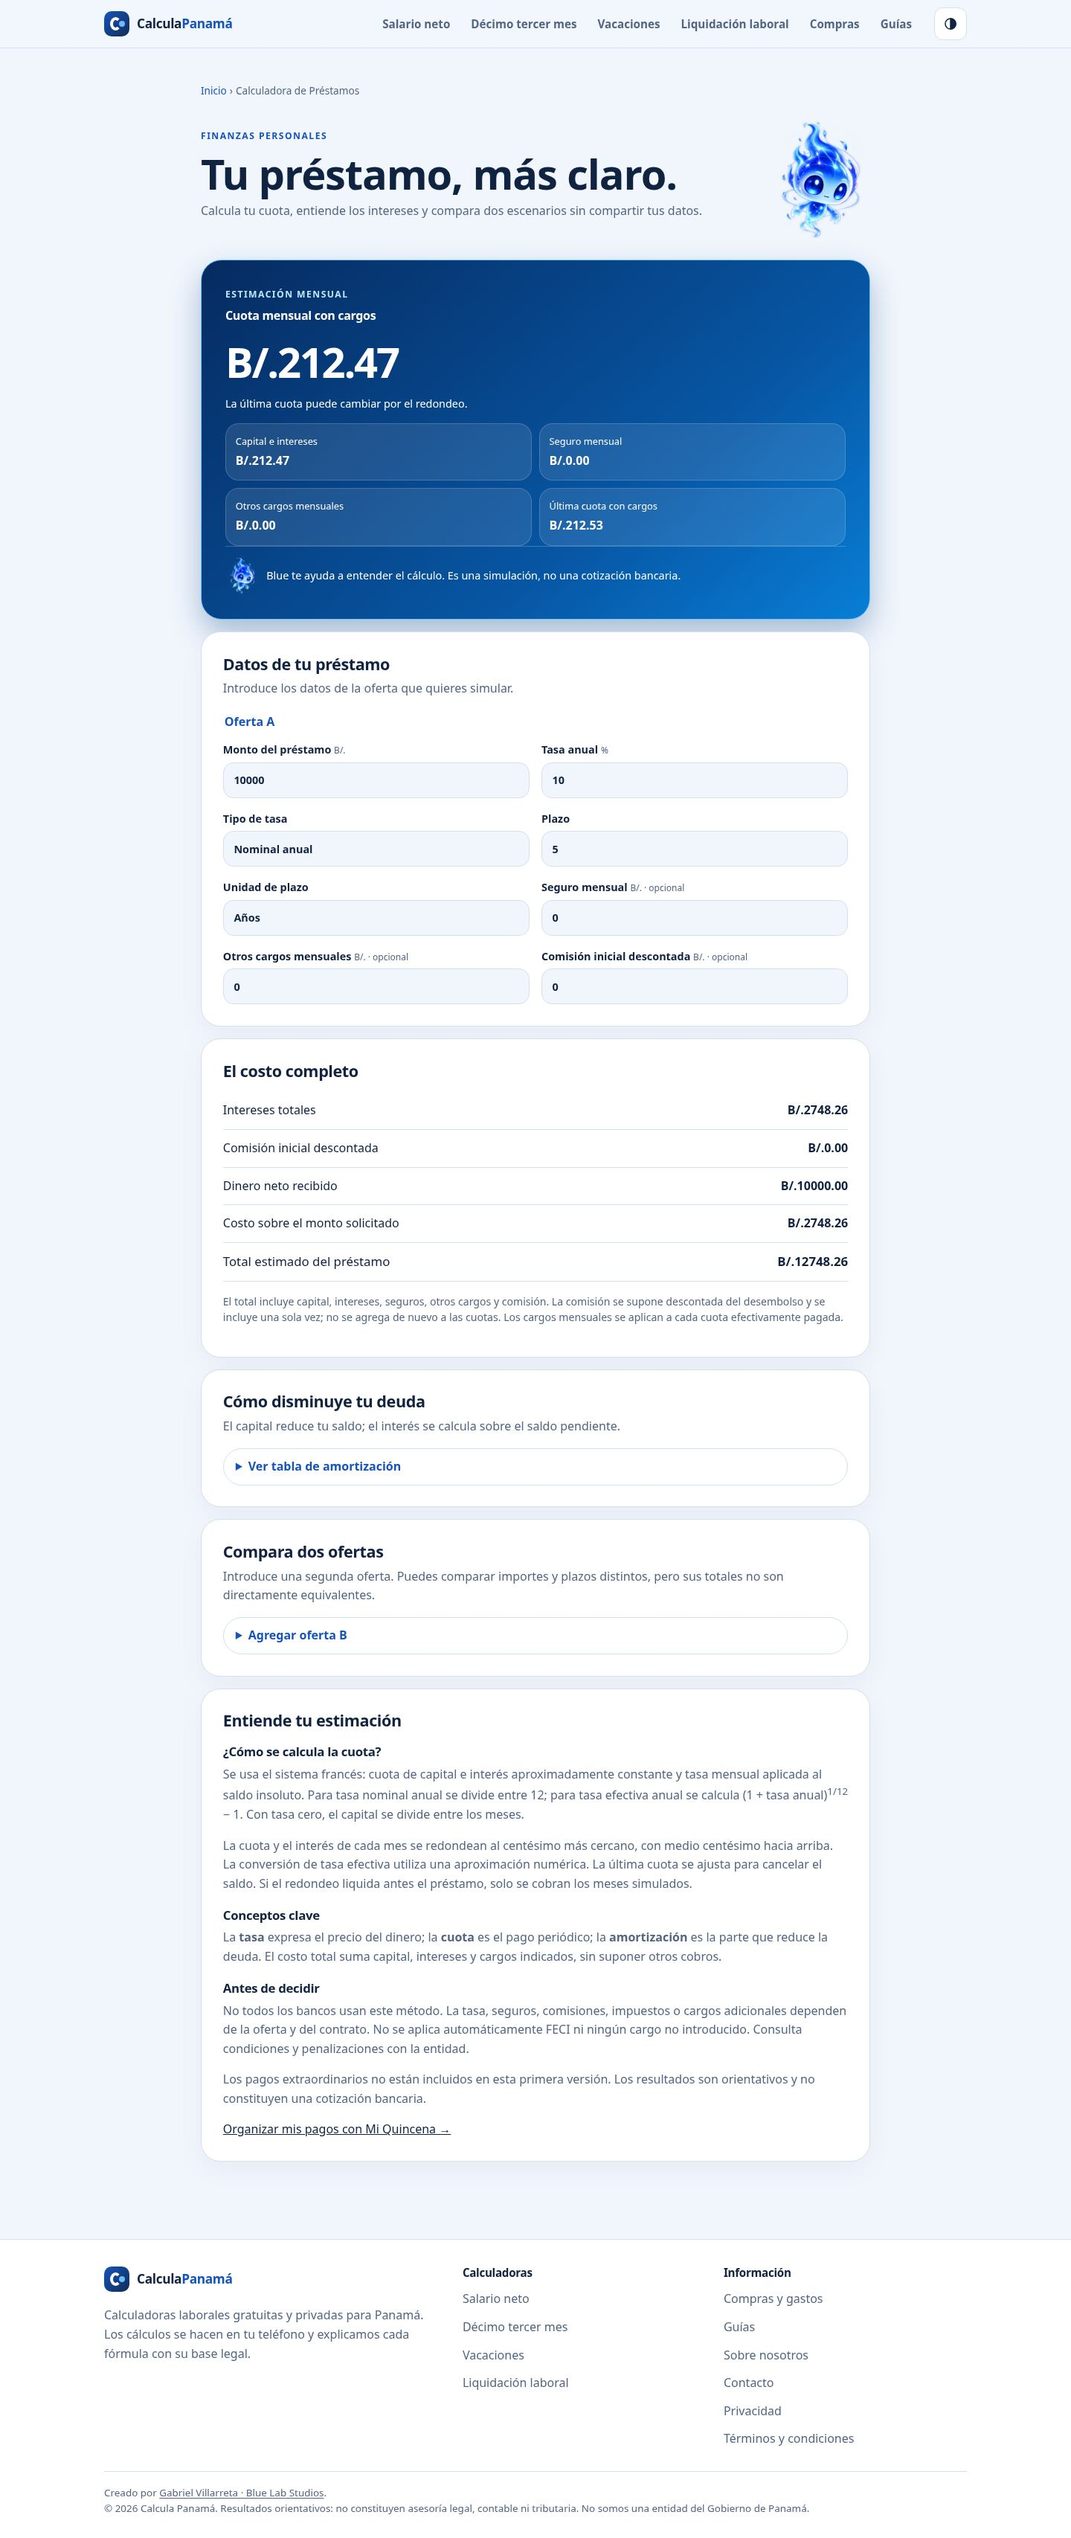
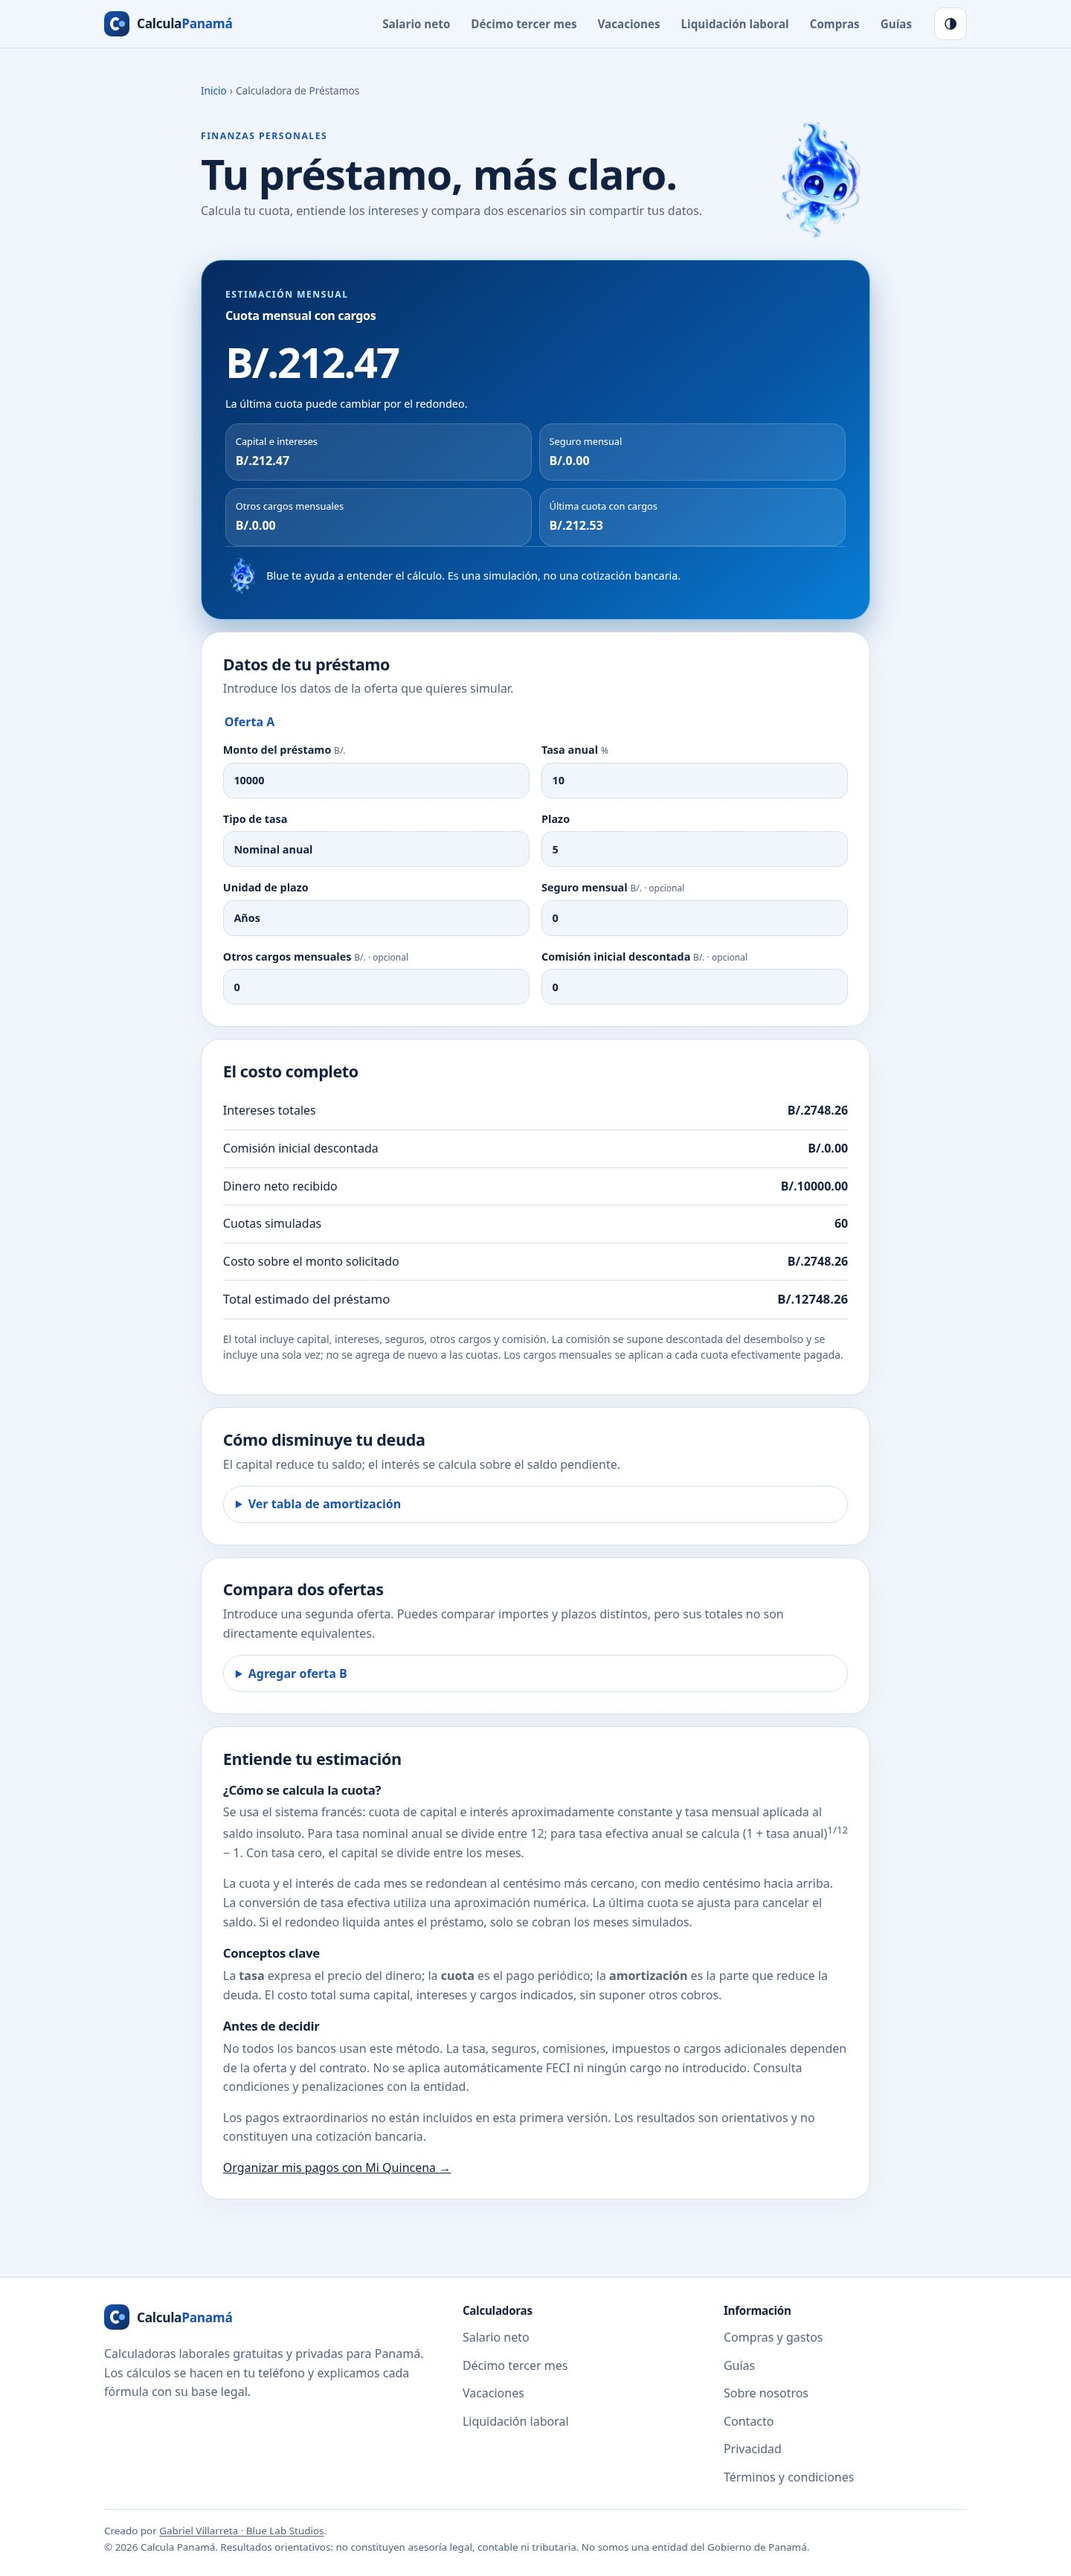
fix: mostrar cuando la amortización termina antes por redondeo

diff --git a/src/lib/finance/loans.test.ts b/src/lib/finance/loans.test.ts
@@ -5,6 +5,7 @@ describe('préstamo amortizable francés', () => {
   it('convierte tasas nominales y efectivas correctamente', () => { expect(monthlyInterest(12, 'nominal')).toBeCloseTo(.01, 12); expect(monthlyInterest(12, 'effective')).toBeCloseTo(Math.pow(1.12, 1/12)-1, 12); expect(monthlyInterest(0, 'effective')).toBe(0); });
   it('calcula intereses sobre saldo insoluto y ajusta la última cuota', () => { const r = calculateLoan(base); expect(r.regularPayment).toBe(8885); expect(r.installments[0]).toEqual({ month: 1, payment: 8885, principal: 7885, interest: 1000, balance: 92115 }); expect(r.installments.at(-1)?.balance).toBe(0); expect(r.installments.reduce((sum, x) => sum + x.principal, 0)).toBe(base.principal); expect(r.totalPaid).toBe(base.principal + r.interestTotal); });
   it('sin interés divide capital y ajusta residuos de centavos', () => { const r = calculateLoan({ ...base, principal: 10000, annualRate: 0, months: 3 }); expect(r.installments.map(x => x.payment)).toEqual([3333,3333,3334]); expect(r.interestTotal).toBe(0); });
+  it('detecta cancelación anticipada cuando el redondeo agota el saldo', () => { const r = calculateLoan({ ...base, principal: 100, annualRate: 0, months: 60 }); expect(r.installments.length).toBe(50); expect(r.installments.at(-1)?.balance).toBe(0); });
   it('redondea exactamente medio centésimo nominal hacia arriba', () => { const r = calculateLoan({ ...base, principal: 5000, annualRate: .12 }); expect(r.installments[0]?.interest).toBe(1); });
   it('incluye cargos y comisión una sola vez en costo y desembolso', () => { const r = calculateLoan({ ...base, annualRate: 0, insurance: 200, monthlyCharges: 100, upfrontFee: 500 }); expect(r.netReceived).toBe(99500); expect(r.totalPaid).toBe(104100); expect(r.cost).toBe(4100); expect(r.regularTotal).toBe(r.regularPayment + 300); });
   it('admite un mes, plazos largos y tasas pequeñas', () => { expect(calculateLoan({ ...base, months: 1 }).installments[0]?.balance).toBe(0); expect(calculateLoan({ ...base, months: 600, annualRate: .000001 }).installments.at(-1)?.balance).toBe(0); });

diff --git a/src/lib/finance/loans-ui.ts b/src/lib/finance/loans-ui.ts
@@ -32,10 +32,11 @@ export function mountLoans(root: HTMLElement) {
   const read = (node: HTMLElement) => { const error = node.querySelector<HTMLElement>('[data-error]')!; try { const input = readOffer(node), result = calculateLoan(input); error.textContent = ''; return { input, result }; } catch (e) { error.textContent = e instanceof Error ? e.message : 'Revisa los datos.'; return null; } };
   const render = () => {
     const first = read(a); current = first?.result ?? null;
-    if (!first) for (const key of ['monthly','financial','insurance','charges','last','interest','fee','net','cost','total']) output(key, '—');
+    if (!first) for (const key of ['monthly','financial','insurance','charges','last','interest','fee','net','cost','total','count']) output(key, '—');
     else {
       const { input, result } = first;
       for (const [key, cents] of Object.entries({ monthly: result.regularTotal, financial: result.regularPayment, insurance: input.insurance, charges: input.monthlyCharges, last: result.finalPayment, interest: result.interestTotal, fee: input.upfrontFee, net: result.netReceived, cost: result.cost, total: result.totalPaid })) output(key, money(cents));
+      output('count', result.installments.length === input.months ? String(input.months) : `${result.installments.length} de ${input.months} (ajuste por redondeo)`);
     }
     renderSchedule();
     const result = get<HTMLElement>('#comparison-result'); result.replaceChildren();

diff --git a/e2e/prestamos.e2e.ts b/e2e/prestamos.e2e.ts
@@ -27,6 +27,7 @@ test('maneja tasa cero, comisión inválida y campos vacíos sin mostrar un resu
   await expect(page.locator('[data-output=interest]')).toHaveText('B/.0.00'); await expect(page.locator('[data-output=last]')).toHaveText('B/.33.34');
   await field(page,'a','fee').fill('101'); await expect(offer(page,'a').locator('[data-error]')).toContainText('comisión'); await expect(page.locator('[data-output=monthly]')).toHaveText('—');
   await field(page,'a','principal').fill(''); await expect(page.locator('[data-output=monthly]')).toHaveText('—');
+  await field(page,'a','fee').fill('0'); await field(page,'a','principal').fill('1'); await field(page,'a','term').fill('60'); await expect(page.locator('[data-output=count]')).toContainText('50 de 60');
 });
 
 for (const v of [{ width: 375, height: 812, name: 'movil' }, { width: 1440, height: 900, name: 'escritorio' }]) test(`captura de préstamos ${v.name}`, async ({ page }) => { await page.setViewportSize(v); await page.goto('/finanzas/calculadora-prestamos/'); await page.screenshot({ path: `test-results/prestamos/${v.name}.png`, fullPage: true, animations: 'disabled' }); });
